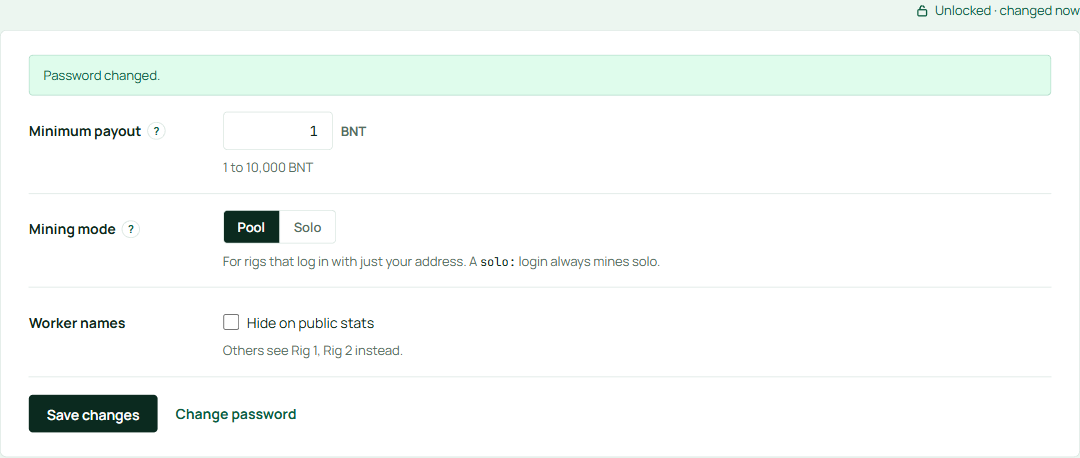
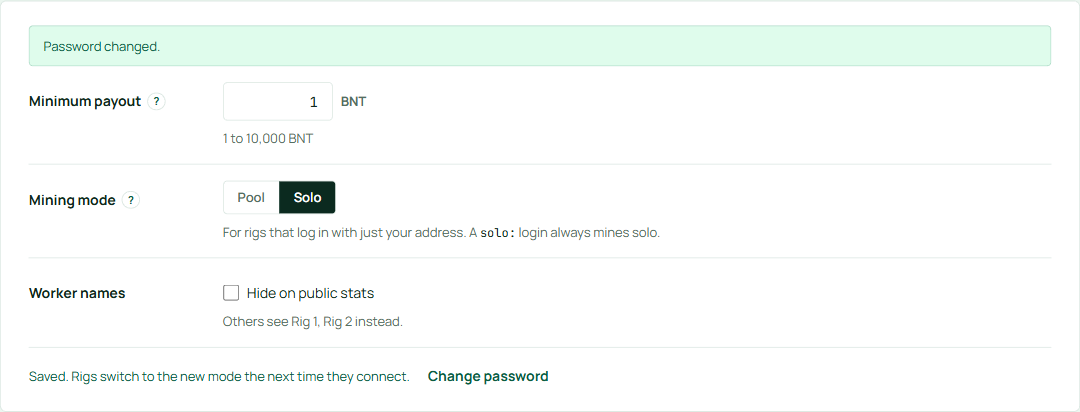
Save miner settings automatically
Pool/Solo and the hide-names box save as soon as they change; the minimum
payout saves when the field loses focus, on Enter, or after a short pause
in typing. Changes made while a save is in flight are sent after it, and a
failed save puts the controls back to what the server has. The Save button
is gone; the status line reads "Changes save automatically", "Saving…" or
"Saved.".

Claude-Session: https://claude.ai/code/session_01X8haTK1pcpRbZpVNhTb1xW

diff --git a/frontend/src/components/MinerSettings.tsx b/frontend/src/components/MinerSettings.tsx
@@ -1,5 +1,5 @@
 import { localizePath, t, tx } from '../i18n';
-import { useCallback, useEffect, useId, useState } from 'react';
+import { useCallback, useEffect, useId, useRef, useState } from 'react';
 
 import type { ApiClient } from '../api/client';
 import { SettingsError } from '../api/client';
@@ -131,16 +131,26 @@ export function MinerSettings({ api, account, onSaved, onUnlockedChange }: Miner
   const [rigIp, setRigIp] = useState('');
   const [changingPassword, setChangingPassword] = useState(false);
   const [draft, setDraft] = useState<{ minPayout: string; solo: boolean; hide: boolean } | null>(null);
+  const [saveStatus, setSaveStatus] = useState<'idle' | 'saving' | 'saved'>('idle');
+  const [saveNote, setSaveNote] = useState('');
+  // Values of the newest change, saved or still on its way to the server.
+  const intended = useRef<MinerSettingsValues | null>(null);
+  const queued = useRef<MinerSettingsValues | null>(null);
+  const saving = useRef(false);
+  const minPayoutTimer = useRef<number | undefined>(undefined);
 
   const adopt = useCallback((next: MinerSettingsState) => {
     setState(next);
     onUnlockedChange?.(next.unlocked);
+    intended.current = next.settings ?? null;
     setDraft(next.settings ? {
       minPayout: String(next.settings.min_payout),
       solo: next.settings.default_solo,
       hide: next.settings.hide_workers,
     } : null);
   }, [onUnlockedChange]);
+
+  useEffect(() => () => window.clearTimeout(minPayoutTimer.current), []);
 
   useEffect(() => {
     let active = true;
@@ -150,6 +160,7 @@ export function MinerSettings({ api, account, onSaved, onUnlockedChange }: Miner
     setNotice('');
     setTakingBack(false);
     setChangingPassword(false);
+    setSaveStatus('idle');
     api.minerSettings.get(account)
       .then((next) => { if (active) adopt(next); })
       .catch(() => { if (active) setLoadFailed(true); });
@@ -171,6 +182,55 @@ export function MinerSettings({ api, account, onSaved, onUnlockedChange }: Miner
       }
     } finally {
       setBusy(false);
+    }
+  };
+
+  /** Saves each change as it is made, one request at a time, newest values last. */
+  const persist = async (values: MinerSettingsValues) => {
+    intended.current = values;
+    if (saving.current) {
+      queued.current = values;
+      return;
+    }
+    saving.current = true;
+    // Leave any notice above the form in place so the controls do not move under the pointer.
+    setSaveStatus('saving');
+    setError('');
+    const before = state?.settings;
+    let next: MinerSettingsValues | null = values;
+    try {
+      let result: MinerSettingsState | null = null;
+      while (next) {
+        result = await api.minerSettings.save(account, next);
+        next = queued.current;
+        queued.current = null;
+      }
+      if (!result) return;
+      setState(result);
+      onUnlockedChange?.(result.unlocked);
+      const settings = result.settings;
+      intended.current = settings ?? null;
+      // Keep whatever is being typed in the amount field; the toggles follow the server.
+      setDraft((draft) => settings && draft ? { ...draft, solo: settings.default_solo, hide: settings.hide_workers } : draft);
+      const notes: string[] = [];
+      if (settings && before && settings.min_payout !== before.min_payout) notes.push(t('settingsSavedMinNote'));
+      if (settings && before && settings.default_solo !== before.default_solo) notes.push(t('settingsSavedModeNote'));
+      setSaveNote(notes.join(' '));
+      setSaveStatus('saved');
+      onSaved();
+    } catch (err) {
+      queued.current = null;
+      setSaveStatus('idle');
+      setError(errorText(err));
+      // Show what the server still has, not the change that failed.
+      const saved = state?.settings;
+      intended.current = saved ?? null;
+      if (saved) setDraft((draft) => draft ? { ...draft, solo: saved.default_solo, hide: saved.hide_workers } : draft);
+      if (err instanceof SettingsError && (err.code === 'locked' || err.code === 'already_claimed')) {
+        api.minerSettings.get(account).then(adopt).catch(() => {});
+      }
+    } finally {
+      saving.current = false;
     }
   };
 
@@ -246,33 +306,40 @@ export function MinerSettings({ api, account, onSaved, onUnlockedChange }: Miner
       {error && <p className="settings-error" role="alert">{error}</p>}
     </>);
   } else if (draft && state.settings) {
-    const saved = state.settings;
     const min = state.pool_min_payout;
     const max = state.max_min_payout;
-    const save = () => {
-      const minPayout = Number(draft.minPayout.trim().replace(',', '.'));
-      if (!Number.isFinite(minPayout) || minPayout < min || minPayout > max) {
-        setNotice('');
-        setError(t('settingsMinPayoutInvalid', [formatNumber(min), formatNumber(max)]));
+    const parseMinPayout = (text: string) => Number(text.trim().replace(',', '.'));
+    const change = (values: Partial<MinerSettingsValues>) => {
+      const base = intended.current ?? state.settings!;
+      void persist({ ...base, ...values });
+    };
+    /** Saves a typed minimum once it is valid; `final` also reports a bad value. */
+    const commitMinPayout = (text: string, final: boolean) => {
+      window.clearTimeout(minPayoutTimer.current);
+      const minPayout = parseMinPayout(text);
+      if (!text.trim() || !Number.isFinite(minPayout) || minPayout < min || minPayout > max) {
+        if (final) {
+          setError(t('settingsMinPayoutInvalid', [formatNumber(min), formatNumber(max)]));
+        }
         return;
       }
-      const next: MinerSettingsValues = { min_payout: minPayout, default_solo: draft.solo, hide_workers: draft.hide };
-      void run(() => api.minerSettings.save(account, next), (result) => {
-        const notes = [t('settingsSaved')];
-        if (result.settings && result.settings.min_payout !== saved.min_payout) notes.push(t('settingsSavedMinNote'));
-        if (result.settings && result.settings.default_solo !== saved.default_solo) notes.push(t('settingsSavedModeNote'));
-        setNotice(notes.join(' '));
-        onSaved();
-      });
+      if (minPayout !== (intended.current ?? state.settings!).min_payout) change({ min_payout: minPayout });
     };
     body = (<>
       {notice && <p className="settings-saved" role="status">{notice}</p>}
-      <form className="settings-form" onSubmit={(event) => { event.preventDefault(); save(); }}>
+      <form className="settings-form" onSubmit={(event) => { event.preventDefault(); commitMinPayout(draft.minPayout, true); }}>
         <Row label={t('settingsMinPayout')} hint={t('settingsMinPayoutRange', [formatNumber(min), formatNumber(max)])}
           help={{ text: t('settingsMinPayoutHelp'), href: `${localizePath('/info')}#minimum-payout`, link: t('settingsHowPayoutsWork') }}>
           <div className="settings-amount">
-            <input type="text" inputMode="decimal" dir="ltr" aria-label={t('settingsMinPayout')} value={draft.minPayout}
-              onChange={(event) => setDraft({ ...draft, minPayout: event.target.value })} />
+            <input type="text" inputMode="decimal" dir="ltr" enterKeyHint="done" aria-label={t('settingsMinPayout')} value={draft.minPayout}
+              onChange={(event) => {
+                const text = event.target.value;
+                setDraft({ ...draft, minPayout: text });
+                setError('');
+                window.clearTimeout(minPayoutTimer.current);
+                minPayoutTimer.current = window.setTimeout(() => commitMinPayout(text, false), 1200);
+              }}
+              onBlur={(event) => commitMinPayout(event.target.value, true)} />
             <span>BNT</span>
           </div>
         </Row>
@@ -280,19 +347,27 @@ export function MinerSettings({ api, account, onSaved, onUnlockedChange }: Miner
           help={{ text: t('infoSoloLead'), href: `${localizePath('/info')}#solo`, link: t('settingsPoolVsSolo') }}>
           <div className="start-choice" role="group" aria-label={t('settingsMode')}>
             <button type="button" className={draft.solo ? '' : 'active'} aria-pressed={!draft.solo}
-              onClick={() => setDraft({ ...draft, solo: false })}>{t('typePool')}</button>
+              onClick={() => { if (draft.solo) { setDraft({ ...draft, solo: false }); change({ default_solo: false }); } }}>{t('typePool')}</button>
             <button type="button" className={draft.solo ? 'active' : ''} aria-pressed={draft.solo}
-              onClick={() => setDraft({ ...draft, solo: true })}>{t('typeSolo')}</button>
+              onClick={() => { if (!draft.solo) { setDraft({ ...draft, solo: true }); change({ default_solo: true }); } }}>{t('typeSolo')}</button>
           </div>
         </Row>
         <Row label={t('settingsWorkerNames')} hint={t('settingsHideWorkersHint')}>
           <div className="settings-checks">
-            <label><input type="checkbox" checked={draft.hide} onChange={(event) => setDraft({ ...draft, hide: event.target.checked })} /> {t('settingsHideWorkers')}</label>
+            <label><input type="checkbox" checked={draft.hide} onChange={(event) => {
+              const hide = event.target.checked;
+              setDraft({ ...draft, hide });
+              change({ hide_workers: hide });
+            }} /> {t('settingsHideWorkers')}</label>
           </div>
         </Row>
         {error && <p className="settings-error settings-row-error" role="alert">{error}</p>}
         <div className="settings-actions">
-          <button type="submit" className="btn btn-primary" disabled={busy}>{t('settingsSave')}</button>
+          <p className={`settings-autosave ${saveStatus === 'saved' ? 'is-saved' : ''}`} role="status" aria-live="polite">
+            {saveStatus === 'saving' ? t('settingsSaving')
+              : saveStatus === 'saved' ? [t('settingsSaved'), saveNote].filter(Boolean).join(' ')
+              : t('settingsAutoSave')}
+          </p>
           <button type="button" className="link-button" aria-expanded={changingPassword}
             onClick={() => setChangingPassword((value) => !value)}>{t('settingsChangePassword')}</button>
         </div>

diff --git a/frontend/showcases/miner-settings/showcase.tsx b/frontend/showcases/miner-settings/showcase.tsx
@@ -23,6 +23,8 @@ type State = keyof typeof STATES;
 const params = new URLSearchParams(location.search);
 const state = ((params.get('state') ?? 'locked') in STATES ? params.get('state') : 'locked') as State;
 const theme = params.get('theme') === 'dark' ? 'dark' : 'light';
+// `save=slow` holds each settings save for 4 s; `save=fail` ends the session on the first save.
+const saveMode = params.get('save');
 localStorage.setItem('pool_theme', theme);
 applyTheme(theme);
 
@@ -109,6 +111,17 @@ function settingsRoute(method: string, action: string, body: Record<string, unkn
   }
   if (method === 'PUT') {
     if (!server.unlocked) return fail(401, 'locked');
+    if (saveMode === 'fail') {
+      server.unlocked = false;
+      return fail(401, 'locked');
+    }
+    if (saveMode === 'slow') {
+      return new Promise<Response>((resolve) => setTimeout(() => {
+        Object.assign(server, { minPayout: body.min_payout, solo: body.default_solo, hide: body.hide_workers });
+        touch();
+        resolve(Response.json(settingsState()));
+      }, 4000));
+    }
     Object.assign(server, { minPayout: body.min_payout, solo: body.default_solo, hide: body.hide_workers });
     touch();
     return Response.json(settingsState());

diff --git a/frontend/src/styles.css b/frontend/src/styles.css
@@ -2561,6 +2561,8 @@ html { scroll-padding-top: 72px; }
 .settings-checks label { display: inline-flex; flex-wrap: wrap; align-items: center; gap: 8px; font-size: 14px; }
 .settings-checks input[type='checkbox'] { width: 16px; height: 16px; margin: 0; accent-color: var(--accent); }
 .settings-actions { display: flex; flex-wrap: wrap; align-items: center; gap: 10px 18px; padding-top: 18px; }
+.settings-autosave { margin: 0; font-size: 13px; color: var(--muted); }
+.settings-autosave.is-saved { color: var(--tone-ok-text); }
 .settings-change-password { margin-top: 16px; padding-top: 16px; border-top: 1px solid var(--border); }
 @media (max-width: 600px) {
   .settings-card { padding: 18px; }

diff --git a/frontend/showcases/miner-settings/README.md b/frontend/showcases/miner-settings/README.md
@@ -15,6 +15,8 @@ real pool. The demo password is `correct horse`; the rig IP that wins a take-bac
   hour lock out further tries.
 - `unlocked`: minimum payout (pool minimum up to what one payout may send, 10,000 BNT on bntpool), mining mode for logins without
   `solo:`, and hiding worker names, each with a ? note for the first two linking to Pool info.
+  Each change saves on its own: Pool/Solo and the checkbox at once, the minimum when the field
+  loses focus, on Enter, or after a short pause in typing. An out-of-range minimum is not sent.
   Saving a new minimum updates the payout bar on the Stats tab.
 - `custom`: unlocked with a 5 BNT minimum, solo and hidden names.
 - `exchange`: an exchange (memo) account, whose 10 BNT minimum can be raised but not
@@ -23,9 +25,14 @@ real pool. The demo password is `correct horse`; the rig IP that wins a take-bac
 - `public-hidden`: the Stats tab as a visitor sees it when names are hidden (Rig 1, Rig 2).
 - `loading`, `error`: settings still loading, and the settings API failing.
 
+Add `save=slow` to hold each save for 4 s (shows "Saving…" and lets changes queue), or
+`save=fail` to end the session on the first save (the "locked again" path).
+
 Take-backs are clicked through from `locked`: Take it back from a rig, a refused IP, then
 `203.0.113.24`, then a new password.
 
 The captures in `captures/` were taken through the shared Playwright browser on 2026-11-04 (EST) at
 1280 px and 390 px and in dark mode, all with synthetic data. Source: blocknet-pool branch
-`miner-settings`.
+`miner-settings`. The unlocked-form captures (`unlocked-*`, `saved`, `saving`, `help-notes`,
+`exchange`, `take-back-done`, `min-payout-invalid`, `locked-again`) were retaken on 2026-11-05
+(EST) for auto-save, from branch `settings-autosave`.
